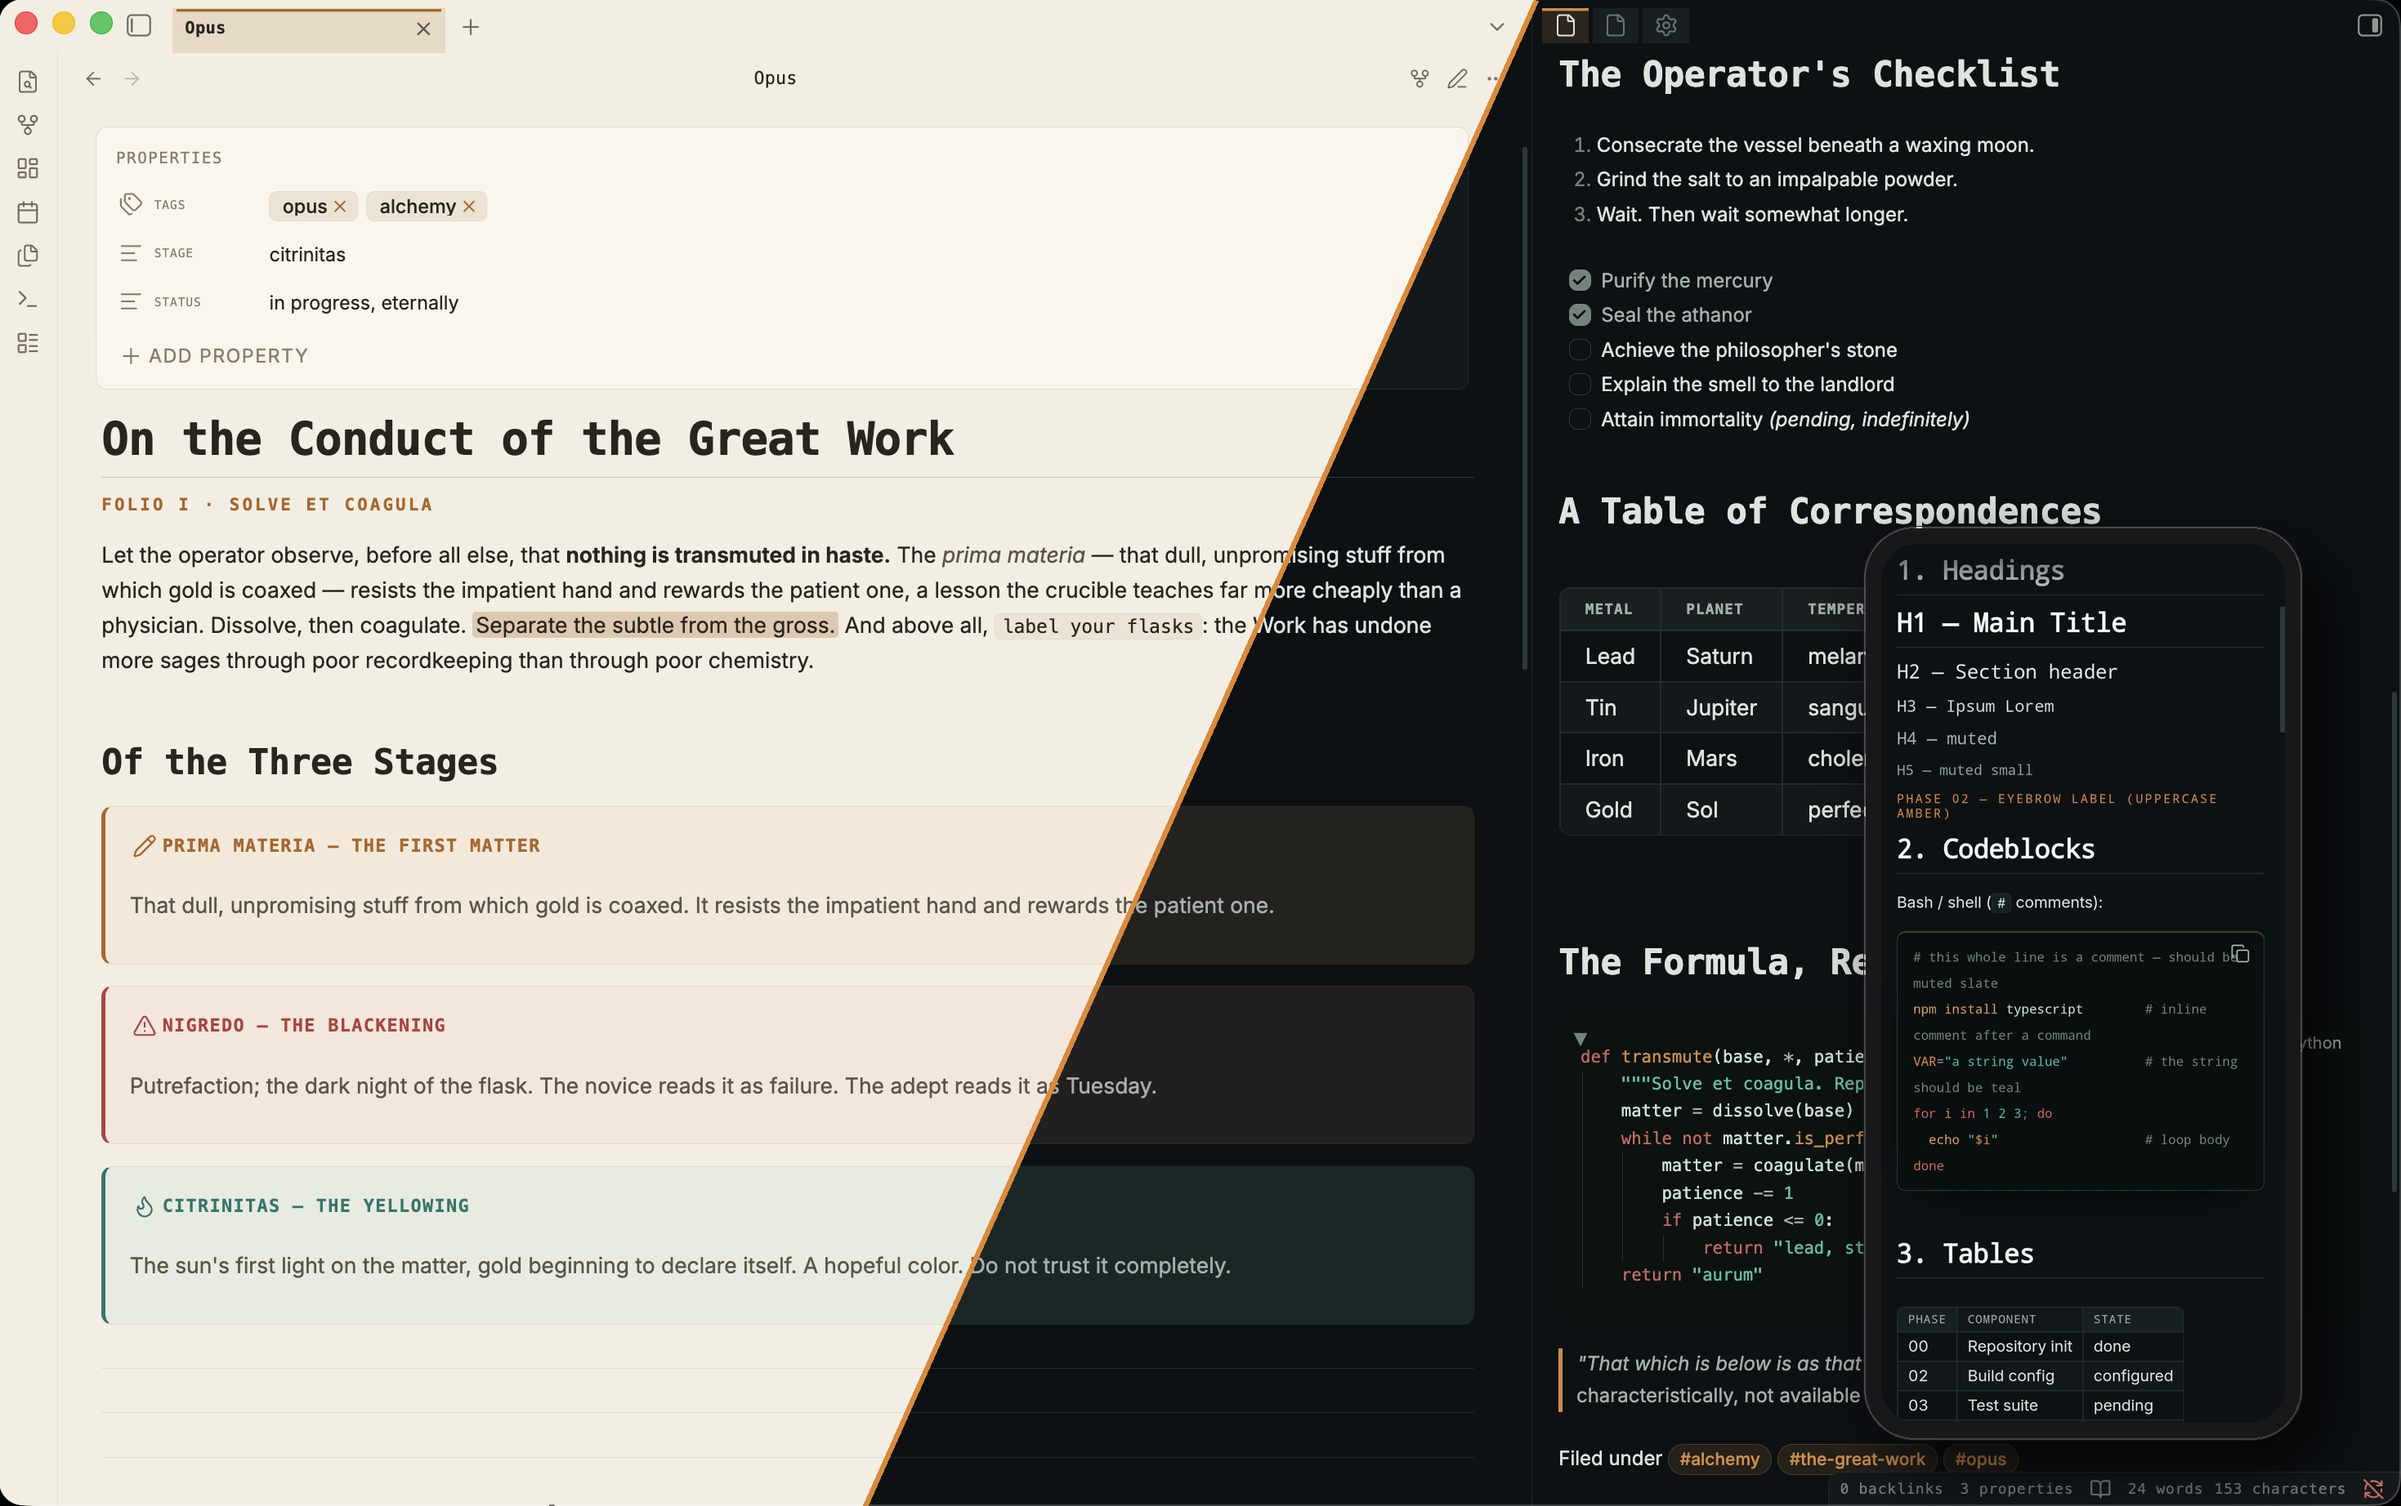
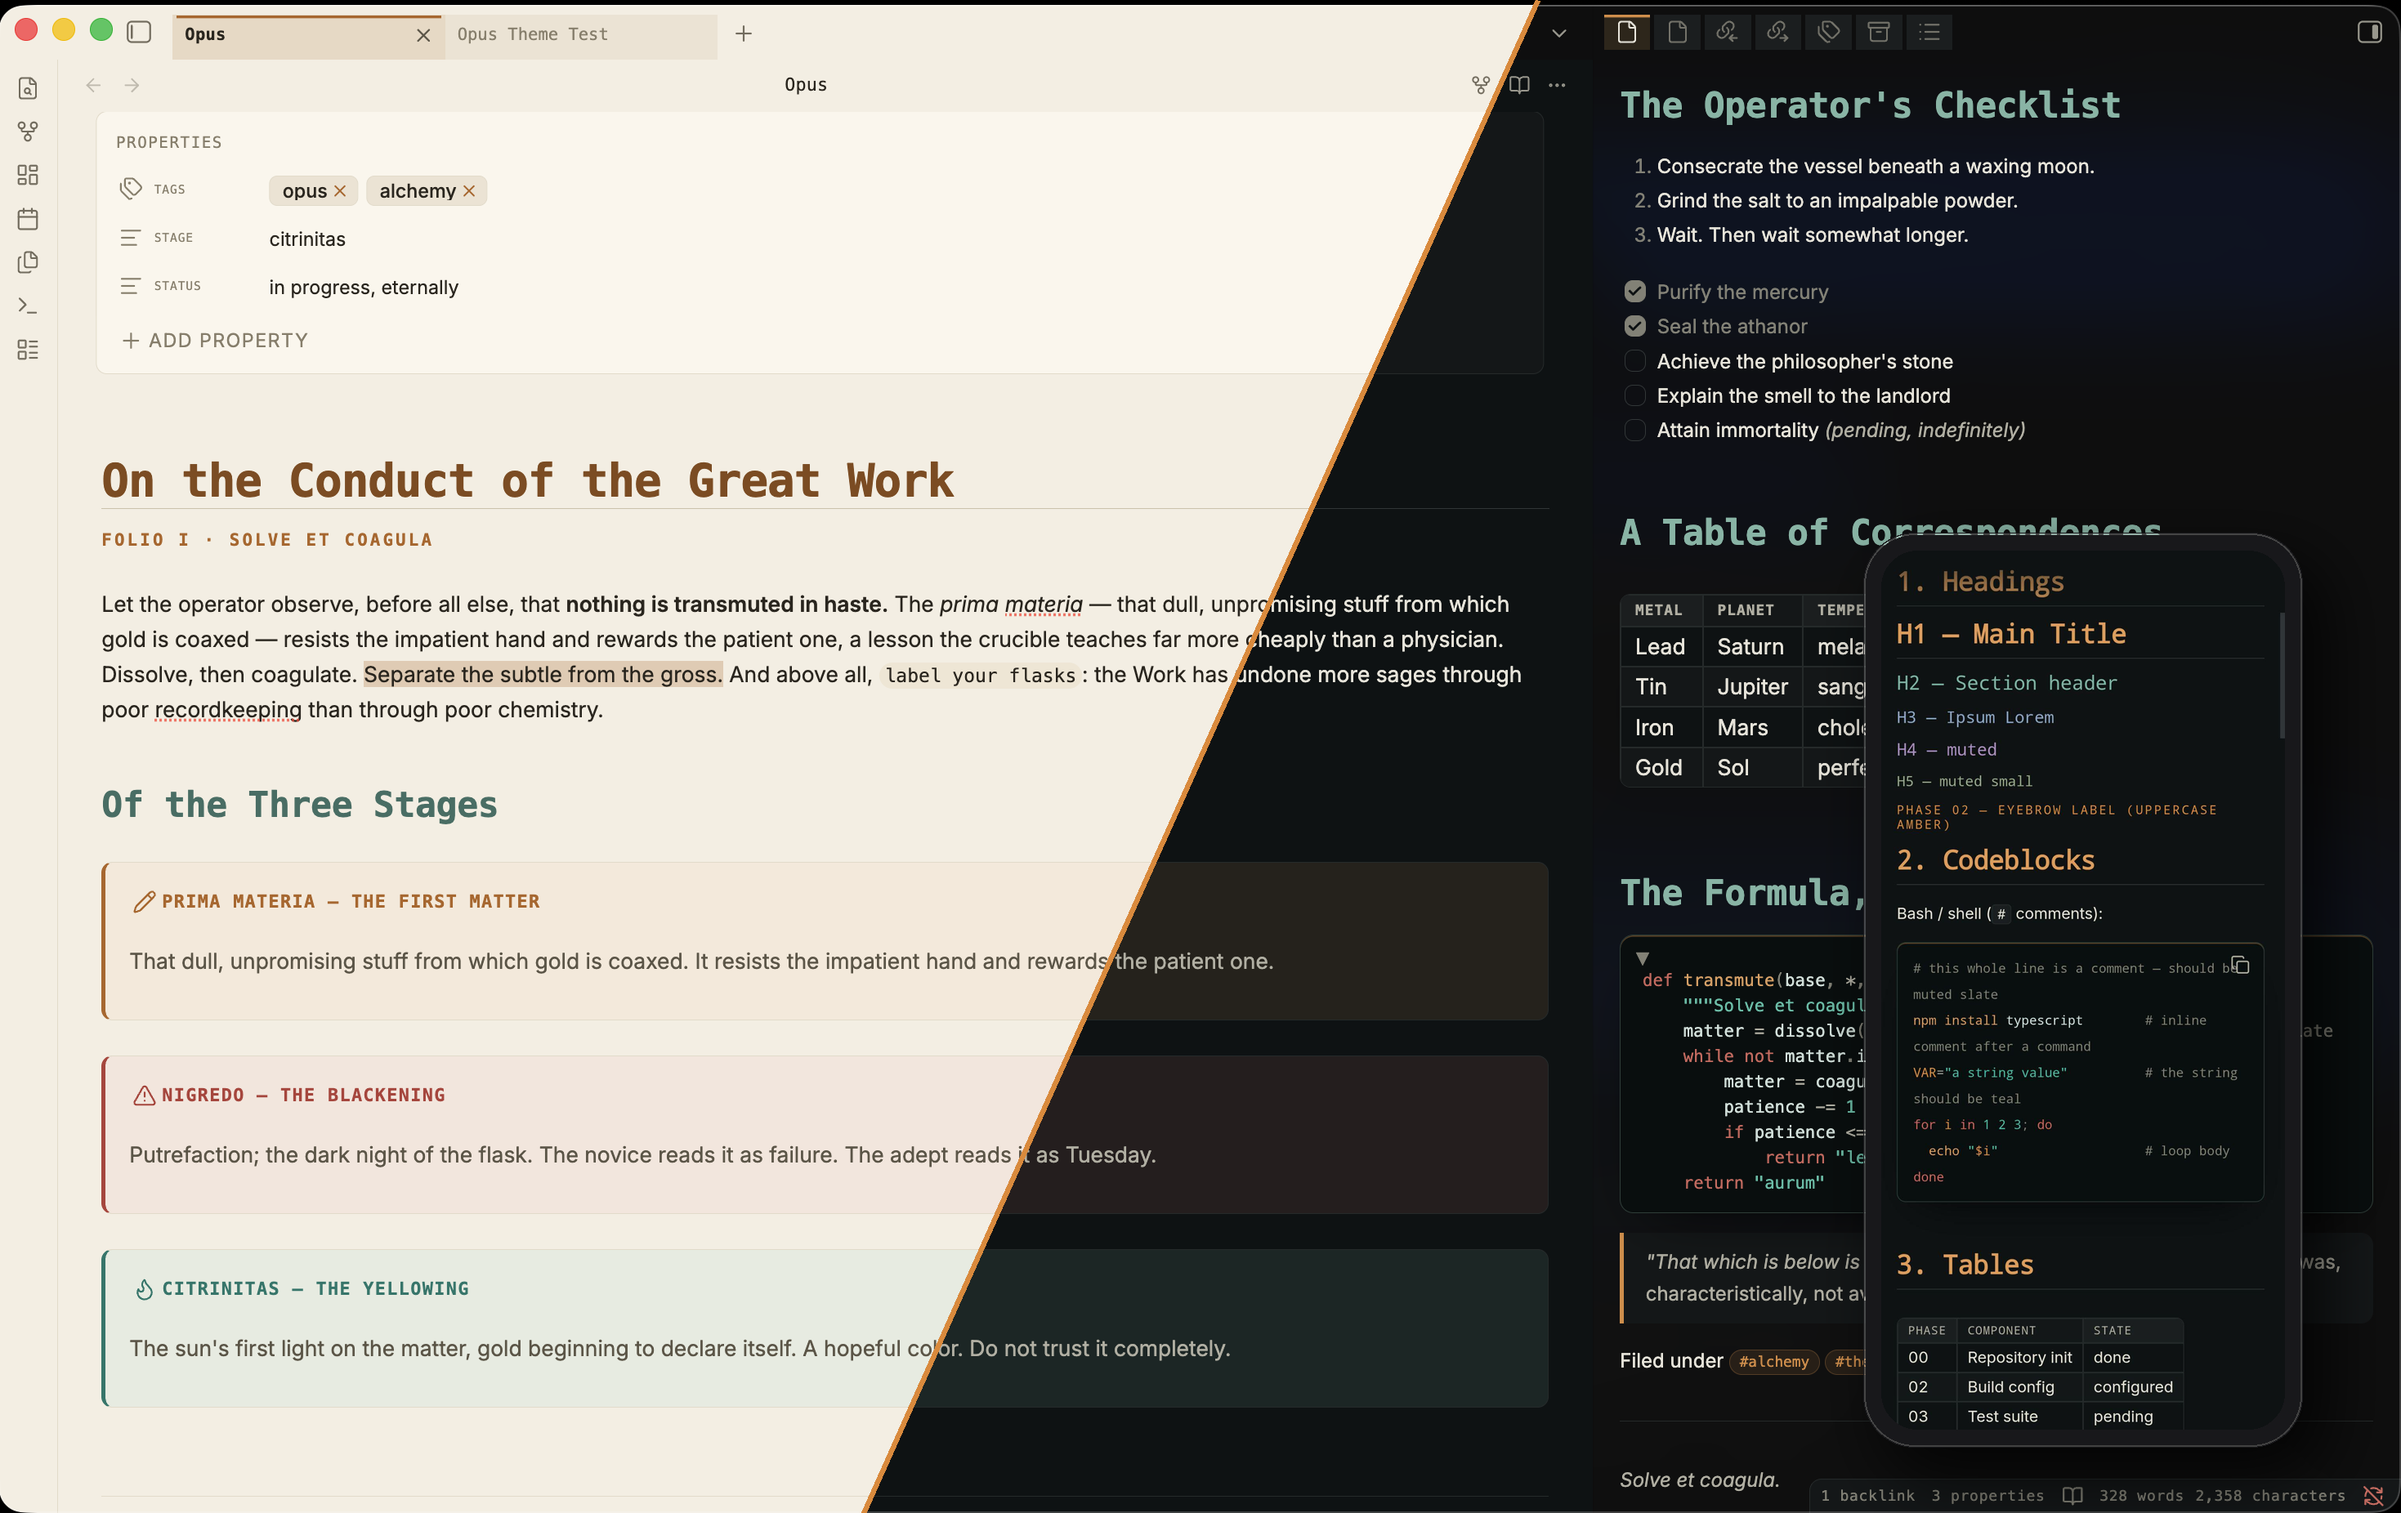
2.8.0 showcase: new hero, canvas + kanban section

diff --git a/README.md b/README.md
@@ -6,14 +6,21 @@ A cold, monospace-forward Obsidian theme with a small, consistent color system. 
 
 ## The idea
 
-Color is used sparingly and always means something: one accent for structure and the active item, teal for good, clay for warning, and not much else. Headings are monospace and separate by size and weight rather than color, so long notes stay calm. The same accent marks the active file, the active tab, and the active table row, so the whole app reads the same way.
+Color is used sparingly and always means something: one accent for structure and the active item, teal for good, clay for warning, and not much else. Headings are monospace on a fixed type scale, and they carry a tonally leveled color ramp: one hue per level at matched lightness, so a long note scans by structure without turning into a rainbow. Prefer hierarchy by value alone? One toggle brings the monochrome ladder back. The same accent marks the active file, the active tab, and the active table row, so the whole app reads the same way.
 
-- **Monospace headings** on a fixed type scale — hierarchy by size and weight, not per-level color.
-- **Consistent semantics** — accent, teal (good), clay (warning), used the same way across callouts, tasks, syntax, and canvas.
-- **Readable code in both views** — comments in muted slate, matched between Reading and Live Preview, tuned for light and dark.
-- **Canvas** — Obsidian's six preset colors remapped to a quieter set; nodes as clean cards, groups as small mono labels, thin edges.
-- **Mobile** — bigger touch targets, elevated nav drawers, and reading width and type tuned for a phone.
-- **Plugins** — Dataview, Kanban, Canvas, Graph, Properties, tables, embeds, and print are all styled to match.
+- **Monospace headings** on a fixed type scale, with a leveled tint ramp that reads as one family.
+- **Consistent semantics:** accent, teal (good), clay (warning), used the same way across callouts, tasks, syntax, canvas, and boards.
+- **Readable code in both views:** comments in muted slate, matched between Reading and Live Preview, tuned for light and dark.
+- **A canvas that stays sharp** (see below).
+- **Kanban as a first-class surface** (see below).
+- **Mobile:** bigger touch targets, elevated nav drawers, and reading width and type tuned for a phone.
+- **Plugins:** Dataview, Graph, Properties, tables, embeds, and print are all styled to match.
+
+## Canvas and Kanban
+
+Most themes treat Canvas as an afterthought. Opus rebuilds it: nodes are clean rounded cards with a color spine, groups are quiet framed regions with small mono labels, edges are thin with readable connector labels, and the six preset colors are remapped to a muted set where red means warning and green means good. The construction is blur-safe, so card text stays crisp at overview zoom, where most themes go soft. Image, note-embed, and web cards get the same treatment as text cards, and the color picker shows the palette you actually get.
+
+Kanban gets the full board, not just the lanes: calm panels with mono uppercase headers and an amber count badge, cards that lift on hover, and rich card content. Tags render as quiet pills, due dates as small mono eyebrows, embedded images stay rounded and bounded, links and inline code match the rest of the theme. Tag and date colors you set in the plugin's own settings are left alone.
 
 ## Flavors
 
@@ -53,7 +60,7 @@ Opus works on its own; the [Style Settings](https://github.com/mgmeyers/obsidian
 - **Accent color** — one picker for the accent; teal and clay stay fixed. Overrides the current flavor.
 - **Layout & motion** — heading spacing, a compact mode, and a motion toggle.
 - **Measure** — line width, font size, and line height.
-- **Typography** — sans-serif headings; body and monospace font overrides.
+- **Typography:** monochrome headings (the pre-2.8 value ladder); sans-serif headings; body and monospace font overrides.
 - **Features** — hide the active-file/tab rails, flat code blocks, dark code in light mode, vivid canvas colors.
 - **OLED & contrast** — true black and higher contrast (dark mode).
 - **Mobile** — text scale and a leaner note header.
